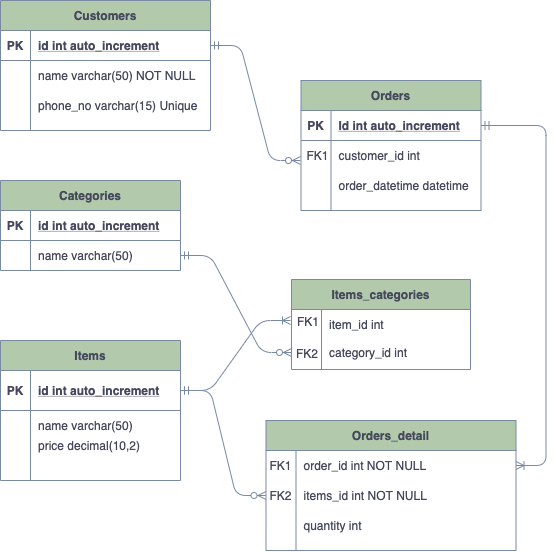
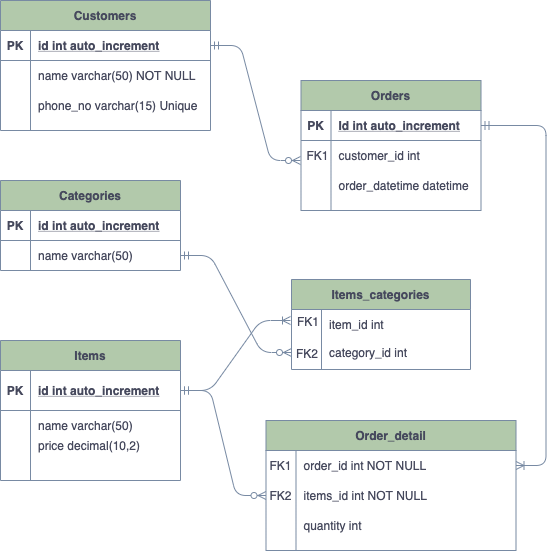
add script for order detail and summary, update readme

diff --git a/homework_2/README.md b/homework_2/README.md
@@ -1,23 +1,28 @@
-# Week-2 Homework
+# Homework : Week 2
 This folder contains erd and all the SQL used for the homework in week-2 that you can find inside homework.sql. 
 
 # Entity Relationship Diagram
 Additional entity : 
 Entity Name | Description
 ------------ | -------------
-Customer | Record customer data such as name, phone number
-Order | Record about the order such as the customer who ordered, date and time when the order was made
+Customers | Record customer data such as name, phone number
+Orders | Record about the order such as the customer who ordered, date and time when the order was made
 Order_Detail | Record all the detail of the order such as items in an order and quantity of the item
 <br>
 <img src="all_screenshots/homework2_erd.png" width=500>
 
 # All Tables
-<img src="all_screenshots/describe_table_1.png" width=400>
+<img src="all_screenshots/describe_table_1.png" width=450>
 <br>
-<img src="all_screenshots/describe_table_2.png" width=400>
+<img src="all_screenshots/describe_table_2.png" width=450>
 
 # Data inside each table
-## Insert
-<img src="all_screenshots/data_1.png" width=400>
+<img src="all_screenshots/data_1.png" width=450>
 <br>
-<img src="all_screenshots/data_2.png" width=400>
+<img src="all_screenshots/data_2.png" width=450>
+
+# Detail for every order
+<img src="all_screenshots/detail_all_order.png" width=400>
+
+# Order summary
+<img src="all_screenshots/order_summary.png" width=400>
